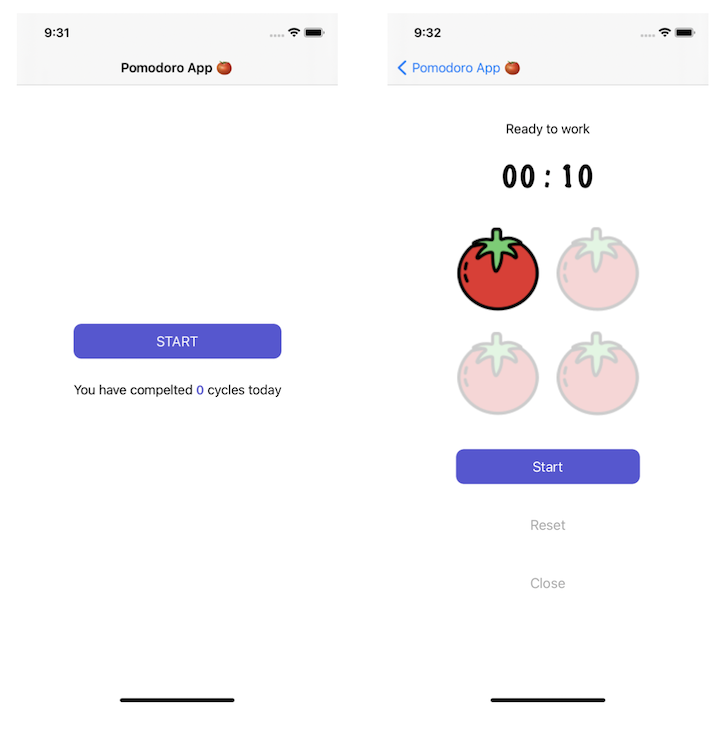
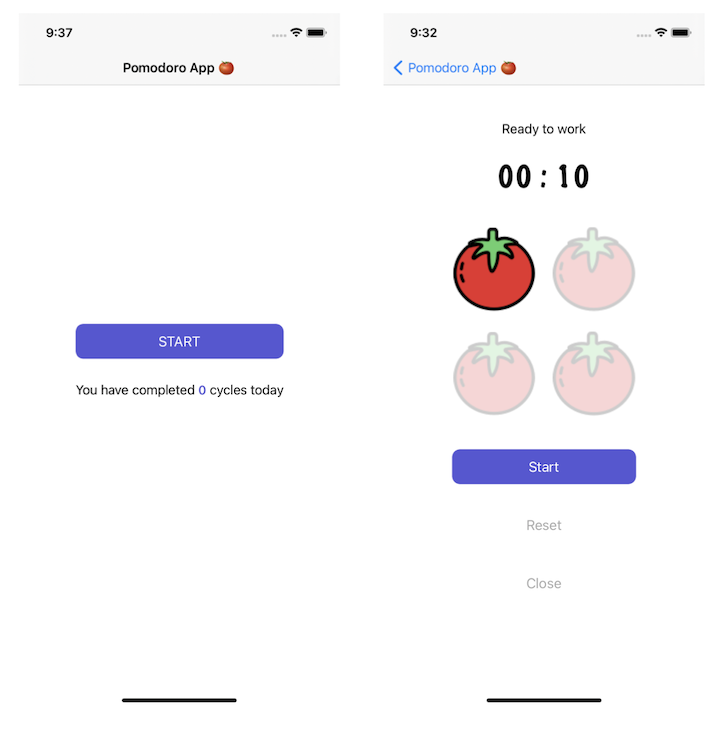
Updated README

diff --git a/Pomodoro/Controller/HomeVC.swift b/Pomodoro/Controller/HomeVC.swift
@@ -78,7 +78,7 @@ class HomeVC: UIViewController {
     
     func setLabel(){
         let highlightAttributes = [NSAttributedString.Key.font: UIFont.boldSystemFont(ofSize: 16), NSAttributedString.Key.foregroundColor: UIColor.systemIndigo]
-        let firstString = NSMutableAttributedString(string: "You have compelted ")
+        let firstString = NSMutableAttributedString(string: "You have completed ")
         let secondString = NSAttributedString(string: "\(completedCycles)", attributes: highlightAttributes)
         let thirdString = NSAttributedString(string: " cycles today")
         firstString.append(secondString)
